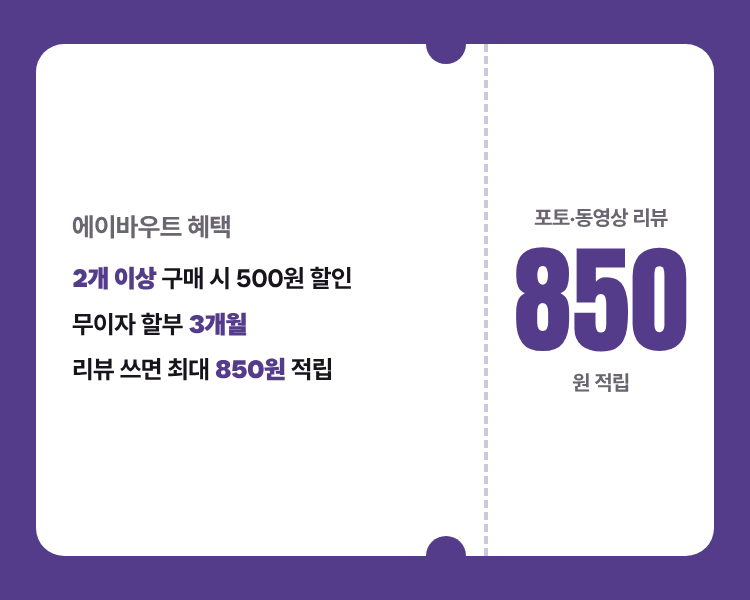
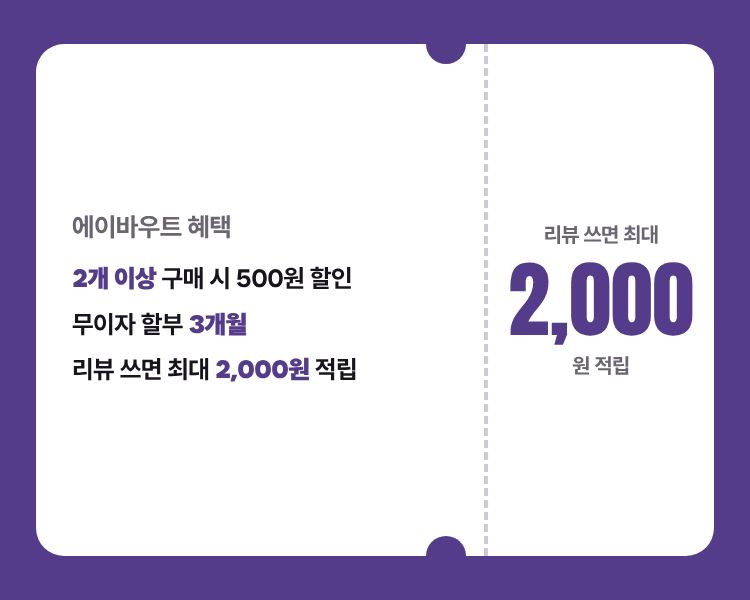
에이바우트 혜택 배너: 리뷰 적립을 '최대 2,000원'으로 수정
Claude-Session: https://claude.ai/code/session_01PE2ziTJ29XNj6qrJ9hNtvD

Changed region(s): [[0.6747, 0.33, 0.9507, 0.66], [0.276, 0.6, 0.4907, 0.66]]

diff --git a/about-design/src/store_promo3.html b/about-design/src/store_promo3.html
@@ -20,7 +20,7 @@ body.pc{width:1920px;height:400px} body.m{width:750px;height:600px}
 .adp{display:block} .pc .adp{width:190px;height:190px} .m .adp{width:150px;height:150px}
 .gift{margin-top:12px;background:var(--plum);color:#fff;font-weight:900;border-radius:999px;padding:4px 18px} .pc .gift{font-size:26px} .m .gift{font-size:22px}
 .cap2{font-weight:700;color:var(--gray)} .pc .cap2{font-size:26px} .m .cap2{font-size:21px}
-.big2{color:var(--plum);margin:8px 0} .pc .big2{font-size:150px} .m .big2{font-size:118px}
+.big2{color:var(--plum);margin:8px 0} .pc .big2{font-size:130px} .m .big2{font-size:84px}
 </style></head><body class="bg __SIZE__">
-<div class="tk"><span class="nt t"></span><span class="nt b"></span><div class="main"><div class="cap">에이바우트 혜택</div><ul class="ben"><li><b>2개 이상</b> 구매 시 500원 할인</li><li>무이자 할부 <b>3개월</b></li><li>리뷰 쓰면 최대 <b>850원</b> 적립</li></ul></div><div class="stub"><div class="cap2">포토·동영상 리뷰</div><div class="num big2">850</div><div class="cap2">원 적립</div></div></div>
+<div class="tk"><span class="nt t"></span><span class="nt b"></span><div class="main"><div class="cap">에이바우트 혜택</div><ul class="ben"><li><b>2개 이상</b> 구매 시 500원 할인</li><li>무이자 할부 <b>3개월</b></li><li>리뷰 쓰면 최대 <b>2,000원</b> 적립</li></ul></div><div class="stub"><div class="cap2">리뷰 쓰면 최대</div><div class="num big2">2,000</div><div class="cap2">원 적립</div></div></div>
 </body></html>
